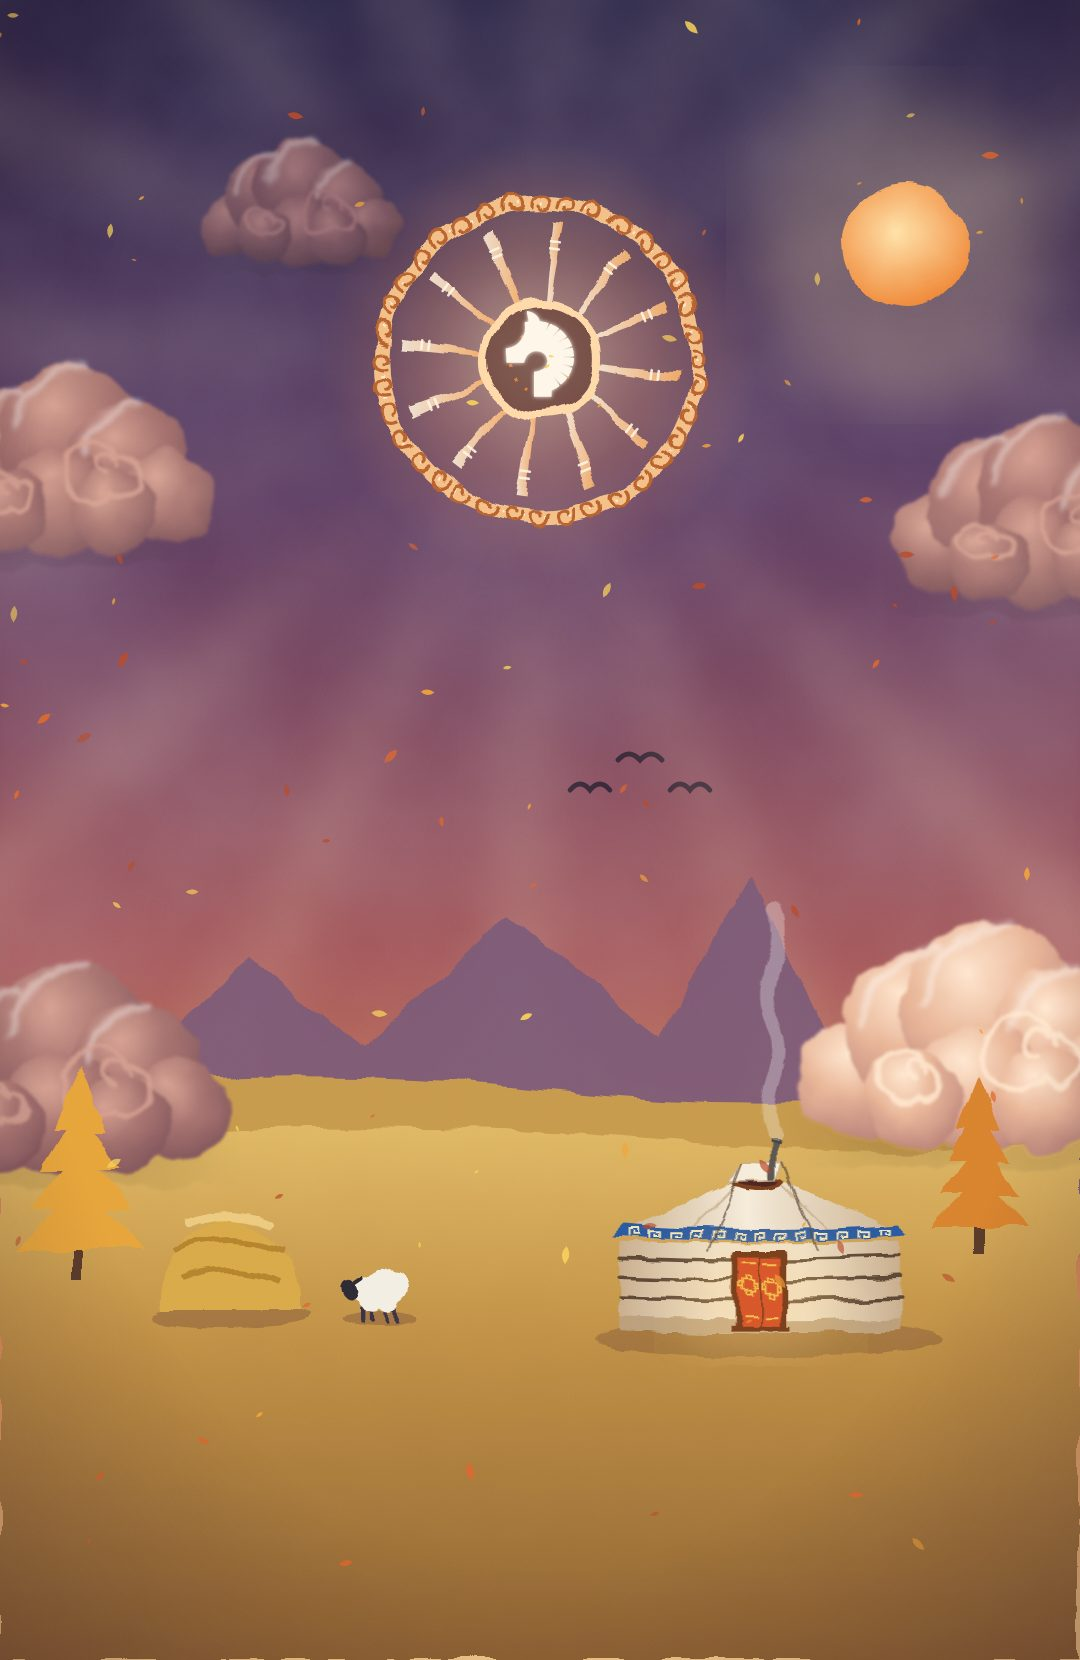
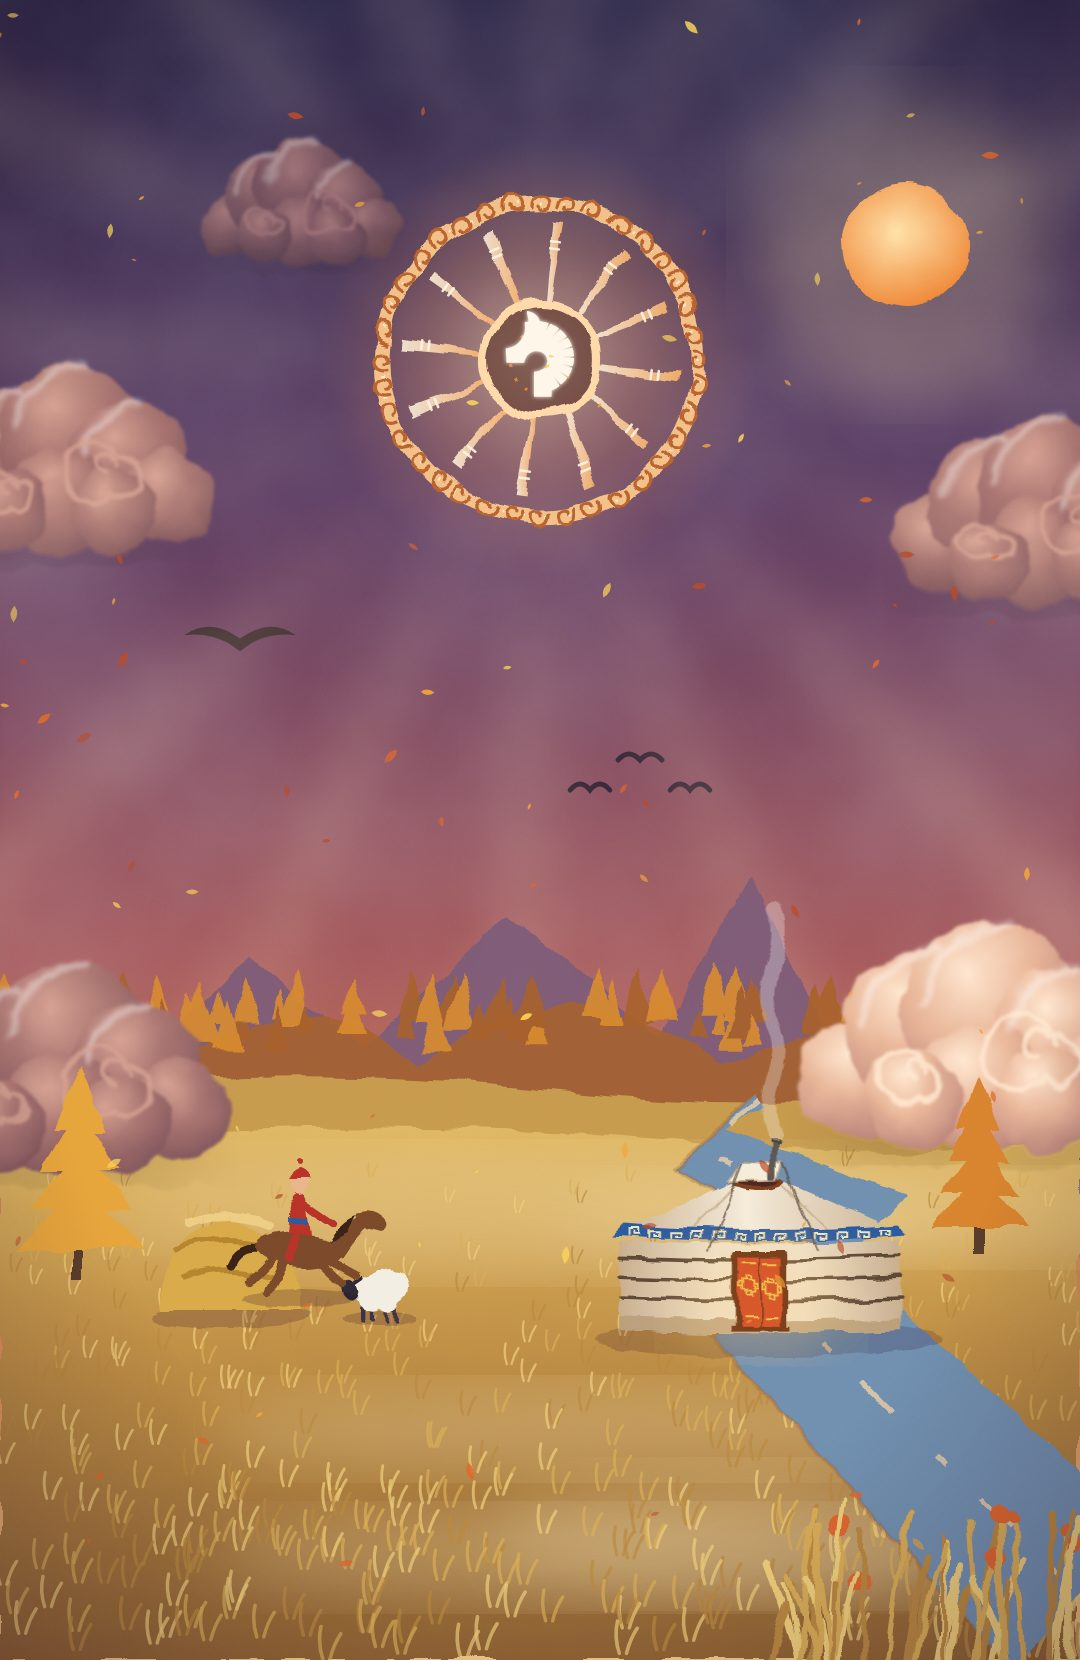
Livelier seasonal heroes: forested foothills, river, textured hill, ovoo, riders, hitched horses, eagle and foreground grass
Claude-Session: https://claude.ai/code/session_013mTHg5jK5EjhttnQogVYog

diff --git a/css/style.css b/css/style.css
@@ -3507,14 +3507,14 @@ html.i18n-wait body { visibility: hidden; }
 .form__status.is-err { color: #b8322a; }
 /* Home hero changes with the season (html[data-season] is set in the page head) */
 .hero__bg--season { background: #1a1d36 center 40% / cover no-repeat; }
-html[data-season="winter"] .hero__bg--season { background-image: url(../assets/img/hero-winter.jpg?v=6); }
-html[data-season="spring"] .hero__bg--season { background-image: url(../assets/img/hero-spring.jpg?v=6); background-color: #7c9cc7; }
-html[data-season="summer"] .hero__bg--season { background-image: url(../assets/img/hero-summer.jpg?v=6); background-color: #3f86cf; }
-html[data-season="autumn"] .hero__bg--season { background-image: url(../assets/img/hero-autumn.jpg?v=6); background-color: #a65a5c; }
+html[data-season="winter"] .hero__bg--season { background-image: url(../assets/img/hero-winter.jpg?v=7); }
+html[data-season="spring"] .hero__bg--season { background-image: url(../assets/img/hero-spring.jpg?v=7); background-color: #7c9cc7; }
+html[data-season="summer"] .hero__bg--season { background-image: url(../assets/img/hero-summer.jpg?v=7); background-color: #3f86cf; }
+html[data-season="autumn"] .hero__bg--season { background-image: url(../assets/img/hero-autumn.jpg?v=7); background-color: #a65a5c; }
 @media (max-width: 700px) {
   .hero__bg--season { background-position: center top; }
-  html[data-season="winter"] .hero__bg--season { background-image: url(../assets/img/hero-winter-m.jpg?v=6); }
-  html[data-season="spring"] .hero__bg--season { background-image: url(../assets/img/hero-spring-m.jpg?v=6); }
-  html[data-season="summer"] .hero__bg--season { background-image: url(../assets/img/hero-summer-m.jpg?v=6); }
-  html[data-season="autumn"] .hero__bg--season { background-image: url(../assets/img/hero-autumn-m.jpg?v=6); }
+  html[data-season="winter"] .hero__bg--season { background-image: url(../assets/img/hero-winter-m.jpg?v=7); }
+  html[data-season="spring"] .hero__bg--season { background-image: url(../assets/img/hero-spring-m.jpg?v=7); }
+  html[data-season="summer"] .hero__bg--season { background-image: url(../assets/img/hero-summer-m.jpg?v=7); }
+  html[data-season="autumn"] .hero__bg--season { background-image: url(../assets/img/hero-autumn-m.jpg?v=7); }
 }

diff --git a/index.html b/index.html
@@ -26,7 +26,7 @@
   <link rel="preconnect" href="https://fonts.googleapis.com">
   <link rel="preconnect" href="https://fonts.gstatic.com" crossorigin>
   <link href="https://fonts.googleapis.com/css2?family=Inter:wght@400;500;600;700&family=Inter+Tight:wght@500;600;700&family=PT+Serif:ital@0;1&display=swap" rel="stylesheet">
-  <link rel="stylesheet" href="css/style.css?v=94">
+  <link rel="stylesheet" href="css/style.css?v=95">
   <script>
     (function () {
       var d = document.documentElement, s = null, l = null;
@@ -38,7 +38,7 @@
       var se = q || (m >= 3 && m <= 5 ? "spring" : m >= 6 && m <= 8 ? "summer" : m >= 9 && m <= 10 ? "autumn" : "winter");
       d.setAttribute("data-season", se);
       var pl = document.createElement("link"); pl.rel = "preload"; pl.as = "image"; pl.fetchPriority = "high";
-      pl.setAttribute("imagesrcset", "assets/img/hero-" + se + "-m.jpg?v=6 1080w, assets/img/hero-" + se + ".jpg?v=6 2560w");
+      pl.setAttribute("imagesrcset", "assets/img/hero-" + se + "-m.jpg?v=7 1080w, assets/img/hero-" + se + ".jpg?v=7 2560w");
       pl.setAttribute("imagesizes", "100vw"); document.head.appendChild(pl);
       // Mongolian is the default; English only when the visitor chose it.
       if (l !== "en") { d.setAttribute("data-lang", "mn"); d.lang = "mn"; d.classList.add("i18n-wait"); setTimeout(function () { d.classList.remove("i18n-wait"); }, 2500); }

diff --git a/culture/index.html b/culture/index.html
@@ -20,7 +20,7 @@
   <link rel="preconnect" href="https://fonts.googleapis.com">
   <link rel="preconnect" href="https://fonts.gstatic.com" crossorigin>
   <link href="https://fonts.googleapis.com/css2?family=Inter:wght@400;500;600;700&family=Inter+Tight:wght@500;600;700&family=PT+Serif:ital@0;1&display=swap" rel="stylesheet">
-  <link rel="stylesheet" href="../css/style.css?v=94">
+  <link rel="stylesheet" href="../css/style.css?v=95">
   <script>
     (function () {
       var d = document.documentElement, s = null, l = null;

diff --git a/edu.html b/edu.html
@@ -20,7 +20,7 @@
   <link rel="preconnect" href="https://fonts.googleapis.com">
   <link rel="preconnect" href="https://fonts.gstatic.com" crossorigin>
   <link href="https://fonts.googleapis.com/css2?family=Inter:wght@400;500;600;700&family=Inter+Tight:wght@500;600;700&family=PT+Serif:ital@0;1&display=swap" rel="stylesheet">
-  <link rel="stylesheet" href="css/style.css?v=94">
+  <link rel="stylesheet" href="css/style.css?v=95">
   <script>
     (function () {
       var d = document.documentElement, s = null, l = null;

diff --git a/environment.html b/environment.html
@@ -20,7 +20,7 @@
   <link rel="preconnect" href="https://fonts.googleapis.com">
   <link rel="preconnect" href="https://fonts.gstatic.com" crossorigin>
   <link href="https://fonts.googleapis.com/css2?family=Inter:wght@400;500;600;700&family=Inter+Tight:wght@500;600;700&family=PT+Serif:ital@0;1&display=swap" rel="stylesheet">
-  <link rel="stylesheet" href="css/style.css?v=94">
+  <link rel="stylesheet" href="css/style.css?v=95">
   <script>
     (function () {
       var d = document.documentElement, s = null, l = null;

diff --git a/member.html b/member.html
@@ -20,7 +20,7 @@
   <link rel="preconnect" href="https://fonts.googleapis.com">
   <link rel="preconnect" href="https://fonts.gstatic.com" crossorigin>
   <link href="https://fonts.googleapis.com/css2?family=Inter:wght@400;500;600;700&family=Inter+Tight:wght@500;600;700&family=PT+Serif:ital@0;1&display=swap" rel="stylesheet">
-  <link rel="stylesheet" href="css/style.css?v=94">
+  <link rel="stylesheet" href="css/style.css?v=95">
   <script>
     (function () {
       var d = document.documentElement, s = null, l = null;

diff --git a/plan.html b/plan.html
@@ -20,7 +20,7 @@
   <link rel="preconnect" href="https://fonts.googleapis.com">
   <link rel="preconnect" href="https://fonts.gstatic.com" crossorigin>
   <link href="https://fonts.googleapis.com/css2?family=Inter:wght@400;500;600;700&family=Inter+Tight:wght@500;600;700&family=PT+Serif:ital@0;1&display=swap" rel="stylesheet">
-  <link rel="stylesheet" href="css/style.css?v=94">
+  <link rel="stylesheet" href="css/style.css?v=95">
   <script>
     (function () {
       var d = document.documentElement, s = null, l = null;

diff --git a/research.html b/research.html
@@ -20,7 +20,7 @@
   <link rel="preconnect" href="https://fonts.googleapis.com">
   <link rel="preconnect" href="https://fonts.gstatic.com" crossorigin>
   <link href="https://fonts.googleapis.com/css2?family=Inter:wght@400;500;600;700&family=Inter+Tight:wght@500;600;700&family=PT+Serif:ital@0;1&display=swap" rel="stylesheet">
-  <link rel="stylesheet" href="css/style.css?v=94">
+  <link rel="stylesheet" href="css/style.css?v=95">
   <script>
     (function () {
       var d = document.documentElement, s = null, l = null;
